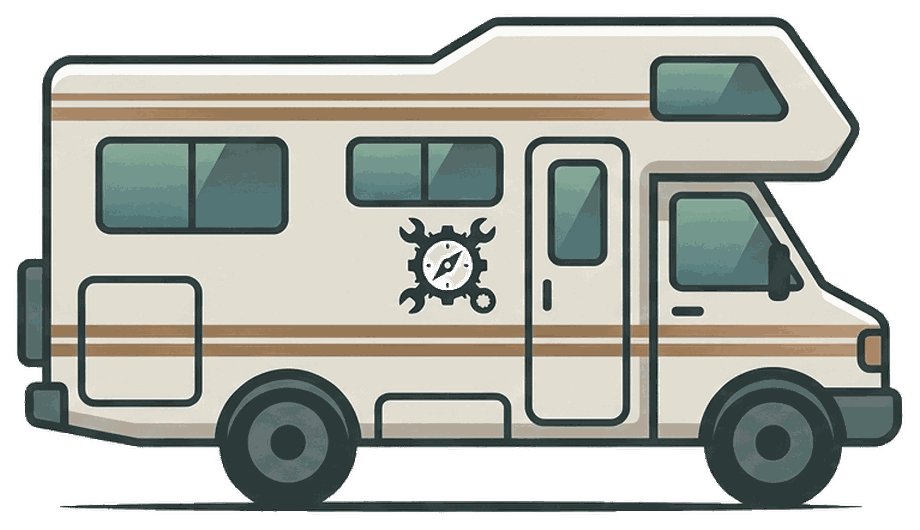
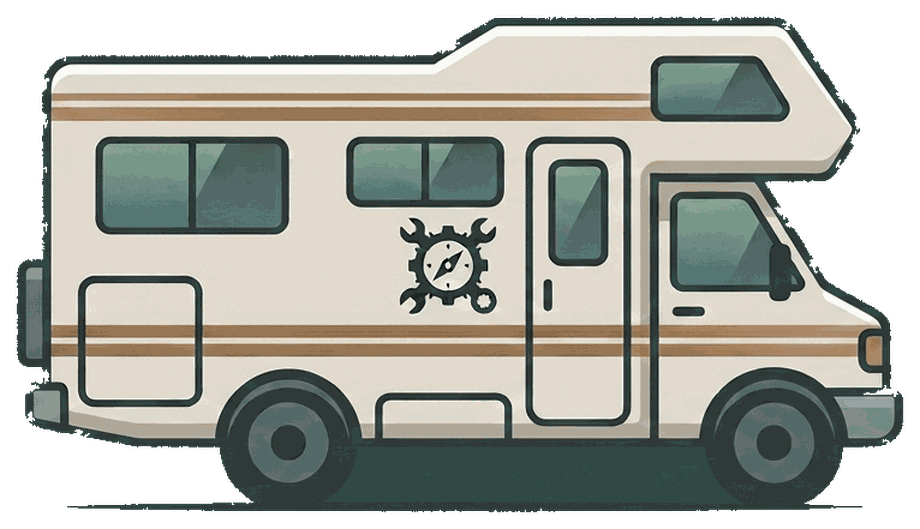
Aggiorna illustrazione hero con la nuova versione del van
Sostituisce l'immagine con la nuova generazione fornita da Nicola,
già coerente con lo sfondo verde della hero section.

diff --git a/index.html b/index.html
@@ -514,7 +514,7 @@
 
       <!-- Illustrazione van (solo desktop) -->
       <div class="hidden md:flex items-center justify-center" aria-hidden="true">
-        <img src="assets/hero-van.png" alt="" width="920" height="530"
+        <img src="assets/hero-van.png" alt="" width="920" height="529"
              style="width:100%;max-width:460px;height:auto">
       </div>
 